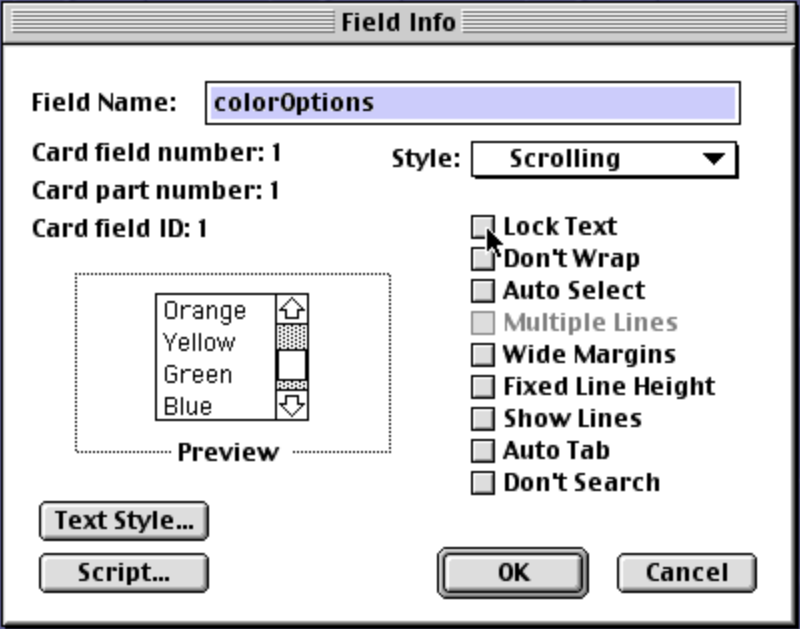
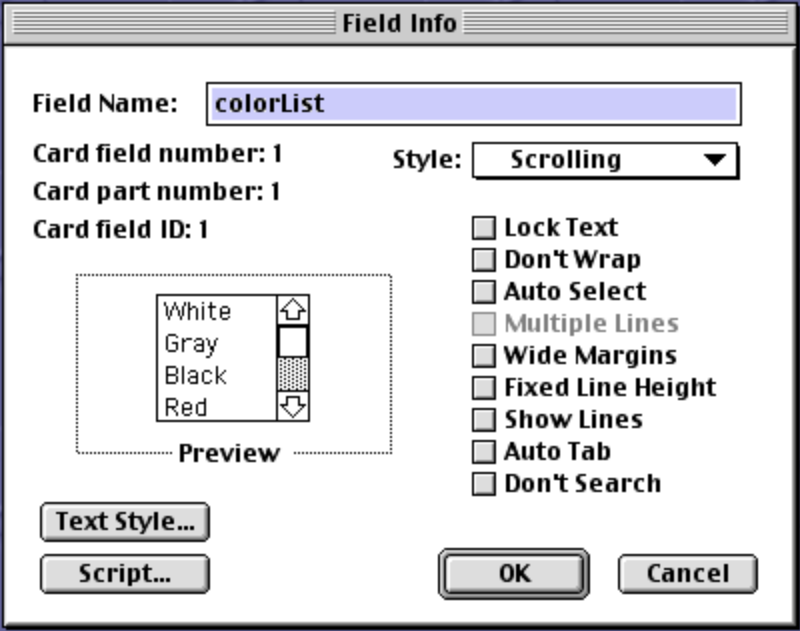
more HyperCard

diff --git a/src/hypercard.md b/src/hypercard.md
@@ -2250,14 +2250,22 @@ end mouseUp
 
 This demonstrates using a field to display a list of options.
 When the user clicks an option, it is highlighted by making it bold.
-The option text is also copied to another field.
+The option text is also copied to another field
+to demonstrate that is was captured.
 
-A hidden field is used to store the selected line number.
-This approach is used because HyperCard does not
-support associating custom data with a field.
-When as option is selected, its line number is
-compared to that of the previously selected option.
+We need a way to remember the line number (or index)
+of the last list option that was selected.
+When an option is selected, its index is
+compared to that of the previous index.
 If they match, the option is deselected.
+
+We can't associated a value with a container like a stack, card, button, or field.
+We can store a value in a hidden field or in a global variable.
+Neither option is ideal, but using a global variable seems best.
+
+There is a non-strict convention where global variables
+begin with the letter "g" and are followed by a CamelCase name.
+So we will use the global variable `gColorListIndex`.
 
 <img alt="HyperCard List Selection" style="width: 30%"
   src="/blog/assets/hypercard-list-selection.png?v={{pkg.version}}">
@@ -2268,49 +2276,46 @@ Create fields like the following:
   src="/blog/assets/hypercard-field1-for-list-selection.png?v={{pkg.version}}">
 <img alt="HyperCard field #2 for list selection" style="width: 49%"
   src="/blog/assets/hypercard-field2-for-list-selection.png?v={{pkg.version}}">
-<img alt="HyperCard field #3 for list selection" style="width: 49%"
-  src="/blog/assets/hypercard-field3-for-list-selection.png?v={{pkg.version}}">
 
-Note that currently "Lock Text" is not checked in the "colorOptions" field.
-Enter the options in the "colorOptions" field on separate lines.
-Open the Field Info dialog for the "colorOptions" field and
+Note that currently "Lock Text" is not checked in the "colorList" field.
+Enter the options in the "colorList" field on separate lines.
+Now open the Field Info dialog for the "colorList" field and
 check the "Lock Text" checkbox so users cannot modify it.
 
-Add the following script to the card
-to hide the "colorOptionsSelectedLineNumber" field:
+Add the following script to the stack
+to initialize the global variable `gColorOptionsIndex" field:
 
 ```text
-on openCard
-  set the visible of card field colorOptionsSelectedLineNumber to false
-end openCard
+on openStack
+  put 0 into gColorListIndex
+end openStack
 ```
 
-Add the following script to the "colorOptions" field:
+Add the following script to the "colorList" field:
 
 ```text
 on mouseUp
+  global gColorListIndex
+
   -- Reset all the text in me to plain style.
   put the number of chars in me into length
-  set the textStyle of char 1 to length of me to plain -- resets style
-
-  -- Get the previously selected line number from a hidden field.
-  put card field colorOptionsSelectedLineNumber into previous
+  set the textStyle of char 1 to length of me to plain
 
   -- Get the currently selected line number from me.
-  put word 2 of the clickLine into current
+  put word 2 of the clickLine into index
 
-  if current is previous then
+  if index is gColorListIndex then
     put empty into card field selectedColor
-    put empty into card field colorOptionsSelectedLineNumber
+    put 0 into gColorListIndex
   else
     -- Display the selected option in another field.
-    put line current of me into card field selectedColor
+    put line index of me into card field selectedColor
 
     -- Make the selected option bold.
-    set the textStyle of line current of me to bold
+    set the textStyle of line index of me to bold
 
-    -- Save the selected line number in a hidden field.
-    put current into card field colorOptionsSelectedLineNumber
+    -- Save the selected index.
+    put index into gColorListIndex
   end if
 end mouseUp
 ```
